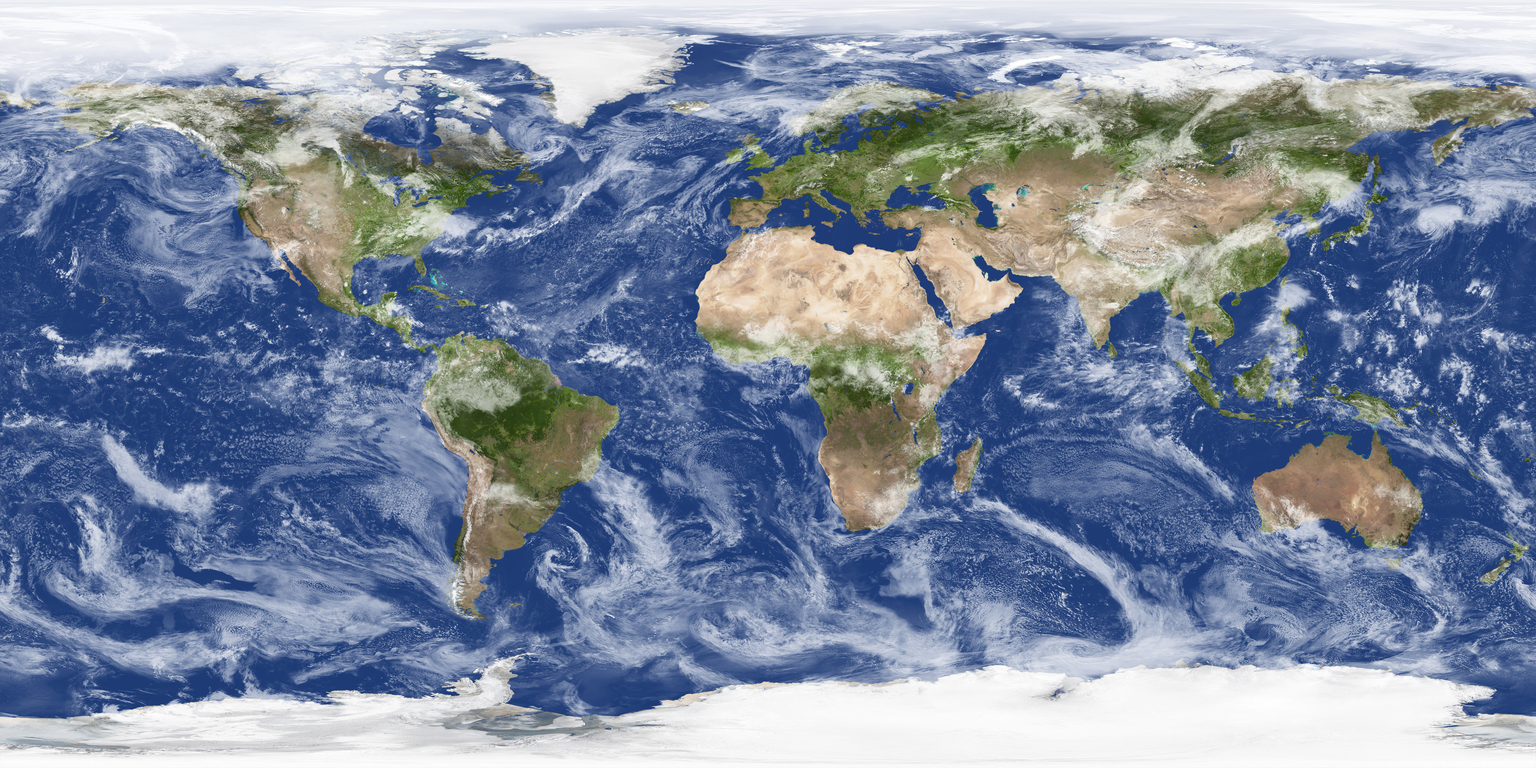
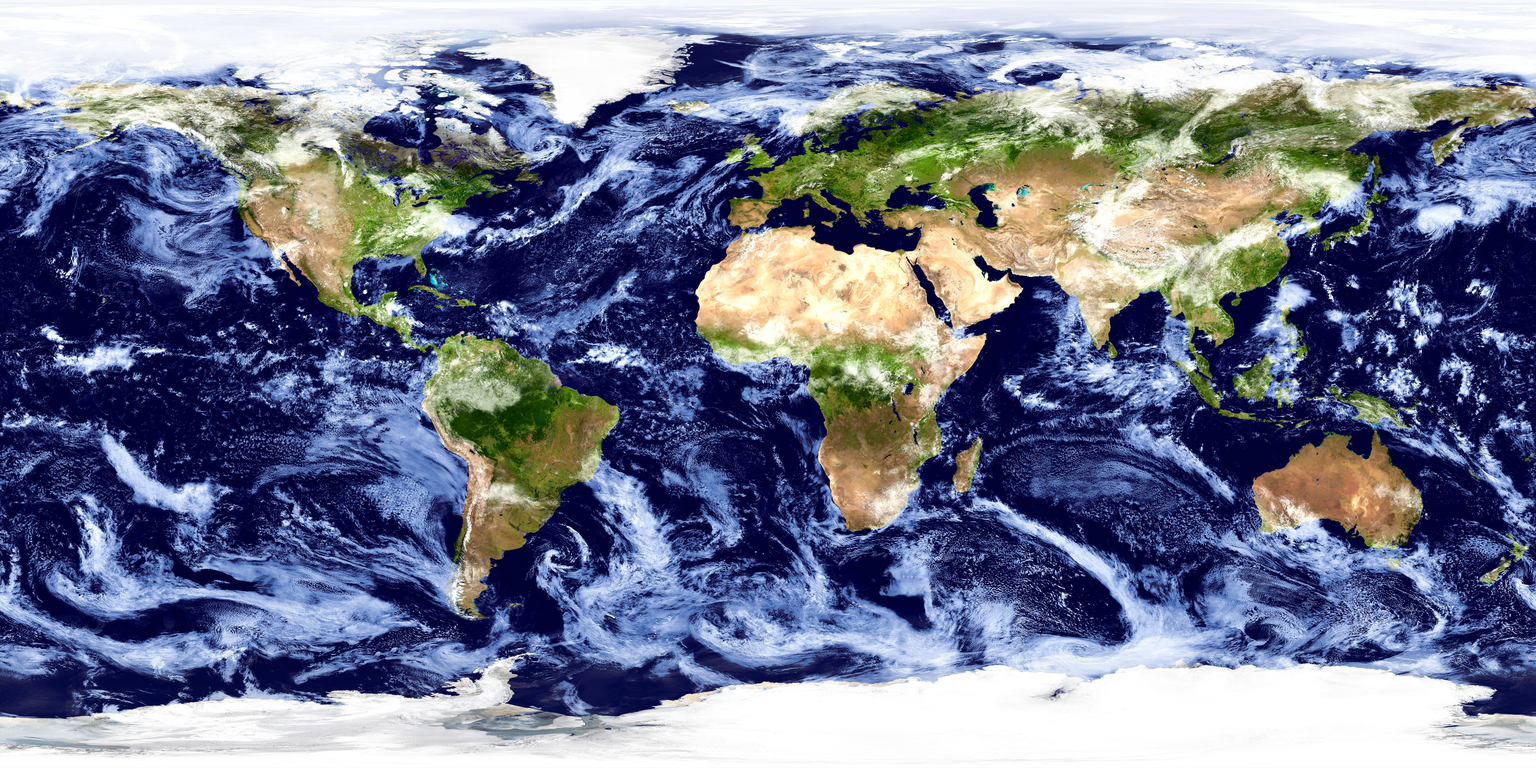
Updated earth textures to mimic real photos
- Updated earth day textures to resemble real NASA photos of Earth from space
- Tweaked atmosphere params again
- Lowered default bloom

diff --git a/core/src/gaia/cu9/ari/gaiaorbit/scenegraph/component/AtmosphereComponent.java b/core/src/gaia/cu9/ari/gaiaorbit/scenegraph/component/AtmosphereComponent.java
@@ -152,7 +152,7 @@ public class AtmosphereComponent {
         transform.getTranslation(aux3);
         // Distance to planet
         float camHeight = (float) (aux3.len());
-        float m_ESun = 7f;
+        float m_ESun = 5f;
         float camHeightGr = camHeight - m_fInnerRadius;
         float atmFactor = (m_fAtmosphereHeight - camHeightGr) / m_fAtmosphereHeight;
 
